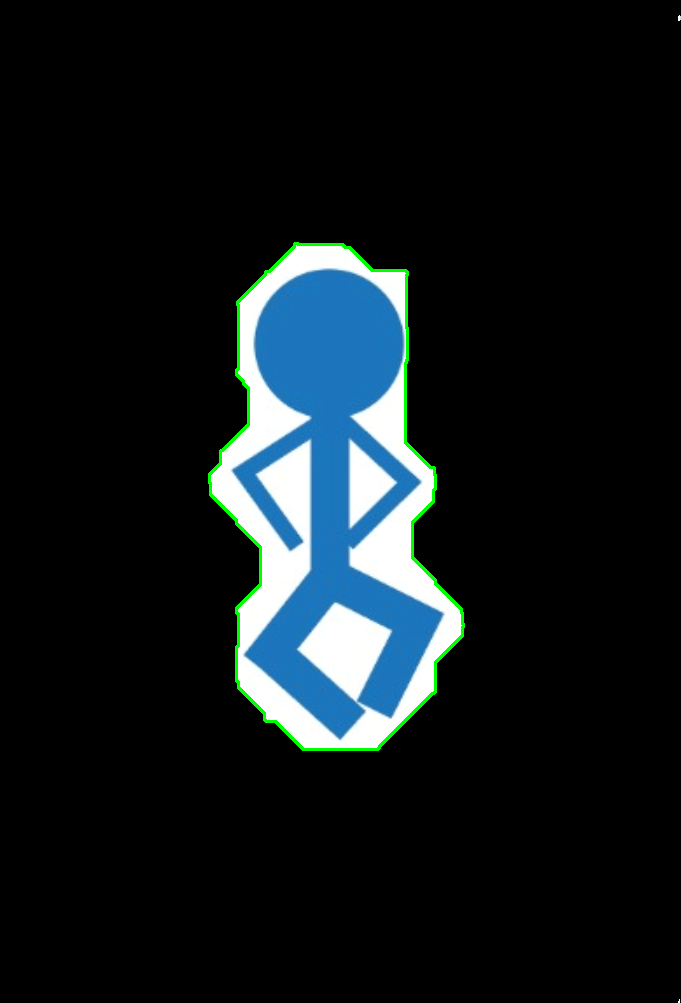
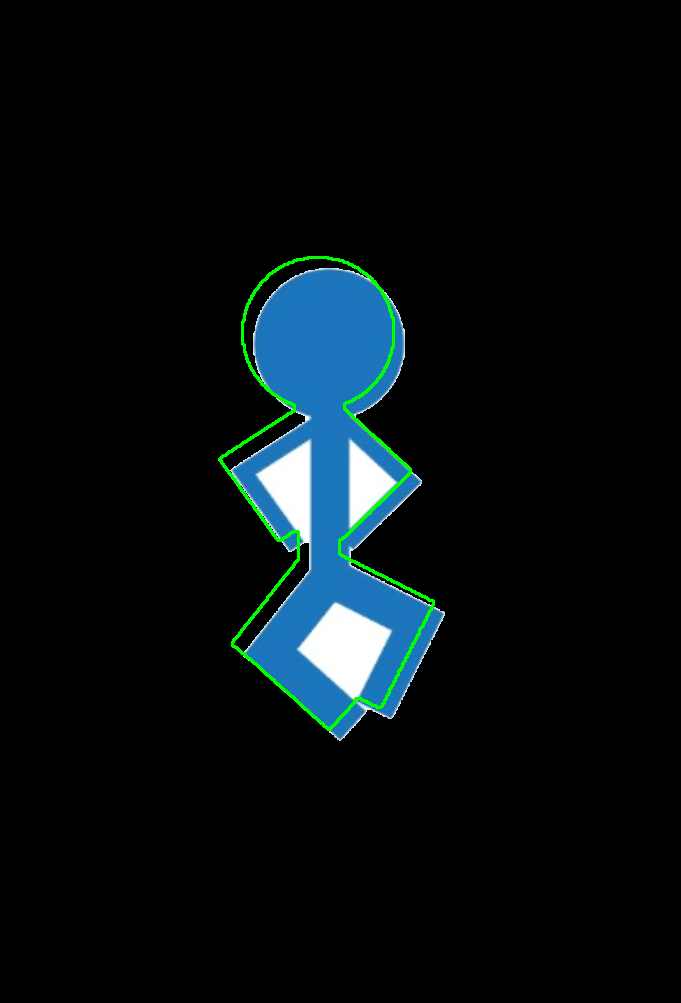
one arm remaining

Changed region(s): [[0.3084, 0.2164, 0.6784, 0.7727]]

diff --git a/shapes.py b/shapes.py
@@ -13,31 +13,35 @@ def load_image(input_file):
     else:
         raise ValueError("Unsupported file format")
 
-# Improved object detection with white background removal
+# Improved object detection with white background removal, including internal regions
 def detect_object(image):
     # Step 1: Convert image to grayscale
     gray = cv2.cvtColor(image, cv2.COLOR_BGR2GRAY)
     
-    # Step 2: Threshold to remove white background
-    _, thresh = cv2.threshold(gray, 240, 255, cv2.THRESH_BINARY_INV)
+    # Step 2: Threshold to remove white background (adaptive threshold)
+    thresh = cv2.adaptiveThreshold(gray, 255, cv2.ADAPTIVE_THRESH_GAUSSIAN_C, cv2.THRESH_BINARY_INV, 11, 2)
+
+    # Step 3: Find all contours, including internal ones
+    contours, _ = cv2.findContours(thresh, cv2.RETR_TREE, cv2.CHAIN_APPROX_SIMPLE)
     
-    # Step 3: Morphological operations to clean the noise
-    kernel = np.ones((3, 3), np.uint8)
-    thresh_cleaned = cv2.morphologyEx(thresh, cv2.MORPH_CLOSE, kernel, iterations=2)
+    # Step 4: Filter and combine contours
+    min_area = 100  # Adjust this value to filter out small noise
+    filtered_contours = [cnt for cnt in contours if cv2.contourArea(cnt) > min_area]
     
-    # Step 4: Find contours of the object
-    contours, _ = cv2.findContours(thresh_cleaned, cv2.RETR_EXTERNAL, cv2.CHAIN_APPROX_SIMPLE)
-    
-    if contours:
-        # Assuming the largest contour is the object
-        contour = max(contours, key=cv2.contourArea)
-        # Create a mask from the contour to isolate the object
-        mask = np.zeros_like(gray)
-        cv2.drawContours(mask, [contour], -1, 255, thickness=cv2.FILLED)
+    if filtered_contours:
+        # Combine all filtered contours into a single mask
+        mask = np.zeros(gray.shape, dtype=np.uint8)
+        for contour in filtered_contours:
+            cv2.drawContours(mask, [contour], 0, 255, -1)
         
-        # Isolate the object from the original image using the mask
+        # Use the mask to isolate the object
         object_isolated = cv2.bitwise_and(image, image, mask=mask)
-        return contour, object_isolated
+        
+        # Find the external contour of the combined mask
+        external_contour, _ = cv2.findContours(mask, cv2.RETR_EXTERNAL, cv2.CHAIN_APPROX_SIMPLE)
+        main_contour = max(external_contour, key=cv2.contourArea)
+        
+        return main_contour, object_isolated
     else:
         return None, image
 
